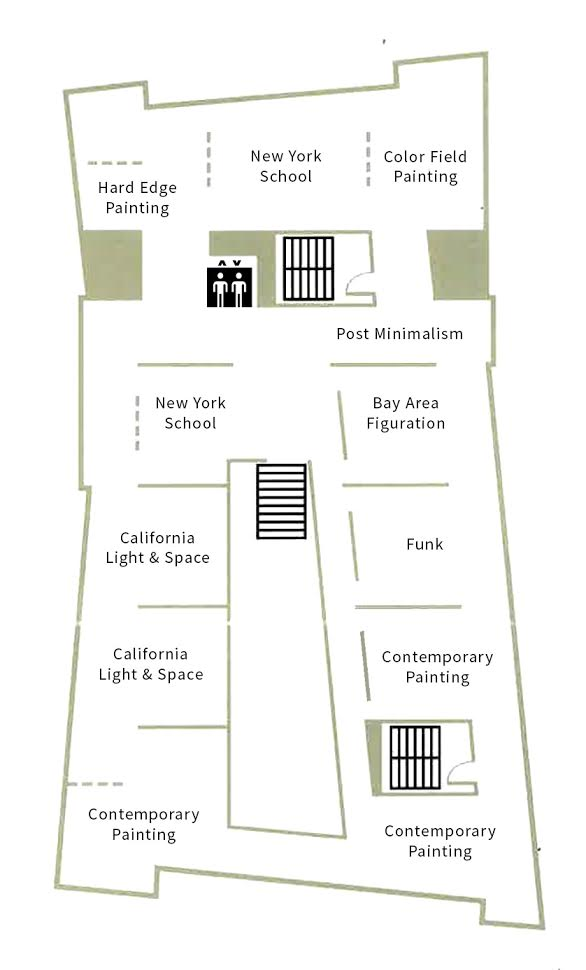
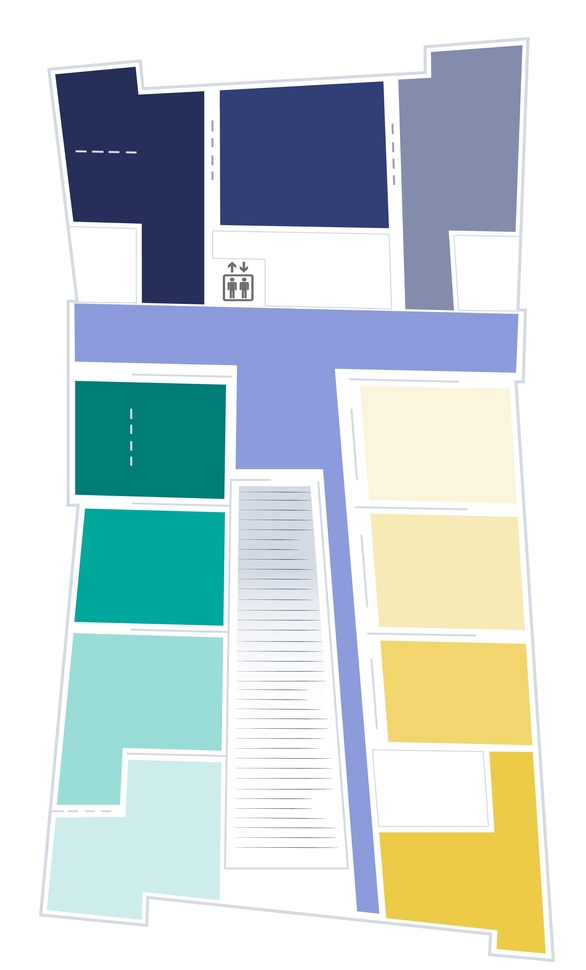
update maps and areas page to do audio

diff --git a/components/area/areaController.js b/components/area/areaController.js
@@ -1,11 +1,153 @@
 'use strict';
 
-caughtApp.controller('areaController', ['$scope', '$routeParams', '$resource',
-  function ($scope, $routeParams, $resource) {
+caughtApp.controller('areaController', ['$scope', '$routeParams', '$resource', '$rootScope',
+  function ($scope, $routeParams, $resource, $rootScope) {
   	$scope.main.title = $routeParams.name;
   	var worksModel = $resource("/area/:name", {}, {get: {method: 'get', isArray: true}});
   	$scope.workList = worksModel.get({name:$routeParams.name}, function () {
   		console.log($scope.workList)
+  		console.log($routeParams.name);
+		$scope.time = "0:00";
+  		$scope.workList.forEach(function(work) {
+  			work.show = false;
+  		});
+
+
   	});
+
+  	$scope.buttonSrc = {
+  		playPause : "./icons/ic_play_arrow_black_24px.svg"
+  	};
+
+  	/*
+  	  	Audio Player Logic	
+  	 */
+  	$scope.step = function() {
+  		var seek = $scope.audio.seek() || 0;
+  		$scope.time = $scope.formatTime(Math.round(seek));
+  		$scope.$apply( function() {
+  			$scope.value = ((seek / $scope.audio.duration()) * 100) || 0;
+  		})
+  		
+  		console.log($scope.value);
+  		// console.log($scope.audio.playing())
+  		if($scope.audio.playing()) {
+  			requestAnimationFrame($scope.step);
+  		}
+  		$scope.time_remaining = $scope.formatTime(Math.round($scope.audio.duration() - seek));
+  	}
+
+  	$scope.formatTime = function(secs) {
+  		var minutes = Math.floor(secs / 60) || 0;
+    	var seconds = (secs - minutes * 60) || 0;
+    	return minutes + ':' + (seconds < 10 ? '0' : '') + seconds;
+  	}
+
+  	$scope.nowPlaying = null;
+  	$scope.selectEntry = function(work) {
+  		if(work.Sound_URL === "") {
+  			return;
+  		}
+  		if($scope.audio !== undefined) {
+  			$scope.audio.stop();
+  			$scope.audio.unload();
+  		}
+  		if($scope.nowPlaying !== null) {
+  			$scope.nowPlaying.show = false;
+  			console.log("here");
+  		}
+
+
+  		$scope.audio = new Howl({
+			src: [work.Sound_URL],
+			onplay: function() {
+				console.log("play2");
+				requestAnimationFrame($scope.step);
+				console.log(work);
+				console.log($scope.nowPlaying);
+				work.show = true;
+				$scope.nowPlaying = work;
+			},
+			onend: function() {
+				$scope.buttonSrc.playPause = "./icons/ic_play_arrow_black_24px.svg";
+				work.show = false;
+				$scope.nowPlaying = null;
+			}
+		});
+
+		$scope.audio.once('load', function() {
+			$scope.time_remaining = $scope.formatTime(Math.round($scope.audio.duration() - 0));
+			$scope.audio.play();
+			$scope.buttonSrc.playPause = "./icons/ic_pause_black_24px.svg";
+		});
+  	}
+
+  	$scope.playPauseAudio = function(work) {
+		if($scope.buttonSrc.playPause === "./icons/ic_play_arrow_black_24px.svg") {
+			$scope.buttonSrc.playPause = "./icons/ic_pause_black_24px.svg";
+
+			if($scope.audio === undefined) {
+				$scope.selectEntry($scope.tour.works[0]);
+			}
+			else {
+				$scope.audio.play();
+			}			
+		}
+		else {
+			$scope.buttonSrc.playPause = "./icons/ic_play_arrow_black_24px.svg";
+			$scope.audio.pause();
+		}
+	};
+
+
+	$rootScope.$on( "$routeChangeStart", function(event, next, current) {
+		if($scope.audio !== undefined) {
+			$scope.audio.stop();
+		}
+	});
+
+	//Volume logic
+	$scope.volume = document.getElementById("volumeSlider");
+
+
+	$scope.volume.addEventListener('mousedown', function() {
+  		window.sliderDown = true;
+  	});
+  	$scope.volume.addEventListener('touchstart', function() {
+  		window.sliderDown = true;
+  	});
+  	$scope.volume.addEventListener('mouseup', function() {
+  		window.sliderDown = false;
+  	});
+  	$scope.volume.addEventListener('touchend', function() {
+  	  	window.sliderDown = false;
+  	});
+
+  	$scope.move = function(event) {
+  		if(window.sliderDown) {
+  			var x = event.clientX || event.touches[0].clientX;
+  			var startX = window.innerWidth * 0.05;
+    		var layerX = x - startX;
+    		var per = Math.min(1, Math.max(0, layerX / parseFloat(volumeSlider.scrollWidth)));
+    		$scope.setVolume(per);
+    		console.log(per);
+  		}
+  	}
+
+  	$scope.volume.addEventListener('mousemove', $scope.move);
+  	$scope.volume.addEventListener('touchmove', $scope.move);
+
+  	$scope.volVal = 50;
+
+  	$scope.setVolume = function(val) {
+  		Howler.volume(val);
+  	}
+
+
+
+  	//Audio progress bar
+
+  	$scope.progress = document.getElementById("progress");
+
 
   }]);

diff --git a/components/map/mapTemplate.html b/components/map/mapTemplate.html
@@ -27,7 +27,20 @@
 
 				<!-- Use image-maps.com to make map-->
 				<map name="andersonmap">
-					<area shape="rect" coords="0,0,100,100" ng-href="#area/contemp">
+
+   					<area alt="" title="" ng-href="#/area/SW" shape="poly" coords="45,70,137,55,143,91,207,94,205,303,144,300,141,227,76,223" />
+				    <area alt="" title="" ng-href="#/area/W" shape="poly" coords="219,226,393,235,387,84,219,84" />
+				    <area alt="" title="" ng-href="#/area/NW" shape="poly" coords="393,82,405,307,459,308,455,235,515,234,523,46,435,46,425,74" />
+				    <area alt="" title="" ng-href="#/area/200" shape="poly" coords="71,307,76,366,233,368,237,475,320,472,357,910,385,914,343,371,519,375,523,316" />
+				    <area alt="" title="" ng-href="#/area/208" shape="poly" coords="73,367,75,500,229,508,228,379" />
+				    <area alt="" title="" ng-href="#/area/207" shape="poly" coords="80,504,75,628,227,632,227,516" />
+				    <area alt="" title="" ng-href="#/area/206" shape="poly" coords="73,631,57,803,121,806,127,751,224,754,225,639" />
+				    <area alt="" title="" ng-href="#/area/205" shape="poly" coords="56,815,45,911,143,920,149,892,224,908,225,762,133,759,125,818" />
+				    <area alt="" title="" ng-href="#/area/201" shape="poly" coords="357,382,368,503,517,511,515,390" />
+				    <area alt="" title="" ng-href="#/area/202" shape="poly" coords="368,514,387,631,531,630,520,519" />
+				    <area alt="" title="" ng-href="#/area/203" shape="poly" coords="376,639,385,744,539,748,525,638" />
+				    <area alt="" title="" ng-href="#/area/204" shape="poly" coords="484,754,495,828,389,828,391,922,495,935,504,962,548,956,535,751" />
+<!-- 					<area shape="rect" coords="0,0,100,100" ng-href="#area/contemp">
 					<map name="andersonmap">
 					<area shape="poly" coords="74,733,59,883,224,907,225,733" alt="Image Map" ng-href="#/area/contemp">
 					<area  alt="" ng-href="#/area/nyschool" shape="poly" coords="210,104,212,226,366,228,364,92">
@@ -40,8 +53,7 @@
 					<area  alt="" ng-href="#/area/clshigher" shape="poly" coords="89,488,226,488,225,604,82,601">
 					<area  alt="" ng-href="#/area/clslower" shape="poly" coords="82,608,226,608,225,724,71,727">
 					<area  alt="" ng-href="#/area/contemprhigh" shape="poly" coords="357,608,508,610,520,716,375,717">
-					<area  alt="" ng-href="#/area/contemprlow" shape="poly" coords="342,799,527,799,540,923,486,921,485,899,349,883">
-				</map>
+					<area  alt="" ng-href="#/area/contemprlow" shape="poly" coords="342,799,527,799,540,923,486,921,485,899,349,883"> -->
 				</map>
 		</md-card>
 	</md-content>

diff --git a/components/area/areaTemplate.html b/components/area/areaTemplate.html
@@ -1,26 +1,46 @@
 <div>
+	<div id="worklist">
+		<md-grid-list layout-fill flex
+			md-cols-xs="1" md-cols-sm="2" md-cols-md="3" md-cols-gt-md="3"
+			md-row-height-gt-md="1:1" md-row-height="2:2"
+			md-gutter="12px" md-gutter-gt-sm="8px">
 
-	<md-grid-list layout-fill flex
-		md-cols-xs="1" md-cols-sm="2" md-cols-md="3" md-cols-gt-md="3"
-		md-row-height-gt-md="1:1" md-row-height="2:2"
-		md-gutter="12px" md-gutter-gt-sm="8px" >
+			<md-grid-tile ng-repeat="work in workList" ng-click="selectEntry(work)">
+				<md-card layout-fill>
+					<md-card-title>
+						<md-card-title-text>
+							<span class="md-headline">{{work.Title}}</span>
+							<span class="md-subhead">{{work.Artist}}</span>
+						</md-card-title-text>
+					</md-card-title>
+					<md-card-content>
+						<img id="list" ng-src="{{work.Work_Image}}" class="md-card-image center">
+						<span>
+							<md-icon md-svg-src="./icons/ic_volume_up_black_24px.svg" id="nowPlaying" ng-show="work.Sound_URL || false"></md-icon>
+						</span>
+						<span>
+							<md-icon md-svg-src="./icons/ic_play_arrow_black_24px.svg" id="nowPlaying" ng-show="work.show || false"></md-icon>
+						</span>
+					</md-card-content>
+					
+				</md-card>
+			</md-grid-tile>
 
-		<md-grid-tile ng-repeat="work in workList">
-			<md-card layout-fill>
-				<md-card-title>
-					<md-card-title-text>
-						<span class="md-headline">{{work.Title}}</span>
-						<span class="md-subhead">{{work.Artist}}</span>
-					</md-card-title-text>
-				</md-card-title>
-				<md-card-content>
-					<img id="list" ng-src="{{work.Image_URL}}" class="md-card-image center">
-				</md-card-content>
-				
-			</md-card>
-		</md-grid-tile>
+		</md-grid-list>
+	</div>
 
-	</md-grid-list>
+	<div id="audioplayer">
+		<!-- audioplayer -->
+		<md-progress-linear id = "progress" md-mode="determinate" value="{{value || 0}}"></md-progress-linear>
+
+		<p style="text-align:left;"> {{time}} <span style="float:right;"> {{time_remaining}}</span></p>
+		<md-icon id="play" class = "size-48 center" md-svg-src="{{buttonSrc.playPause}}" ng-click="playPauseAudio(work)"> Play </md-icon>
+		<md-slider-container id="volumeSlider">
+			<md-icon id="volume" md-svg-src="./icons/ic_volume_up_black_24px.svg"></md-icon>
+			<md-slider min="0" max="100" ng-model="volVal"></md-slider>
+		</md-slider-container>
+	</div>
+
 	<!-- <md-content>
 		<md-card ng-repeat="work in workList">
 			<a ng-href="#work/{{work._id}}">

diff --git a/schema/work.js b/schema/work.js
@@ -1,5 +1,5 @@
 "use strict;"
 var mongoose = require('mongoose');
-var workSchema = new mongoose.Schema({Title: String,Artist: String,Year: String,Medium: String,Size: String,Movement: String,Section: String,Image_URL: String,Sound_URL: String,})
+var workSchema = new mongoose.Schema({ID: String,Title: String,Content: String,Date: String,Post_Type: String,Permalink: String,URL: String,Title_1_: String,URL_1_: String,Medium: String,Decade: String,Movement: String,Artist: String,Gallery_Location: String,Year_of_Anderson_Accession: String,Slug: String,Ping_Status: String,Post_Modified_Date: String,Work_Year: String,Work_Dimensions: String,Work_Medium_Detailed: String,Stanford_Accession_Number: String,Anderson_Accession_Number: String,Acquired_from_Gallery_Person: String,Work_Marks: String,Gift_Acquisition_Notes: String,Featured_Work: String,Work_Image: String,Copyright_Caption: String,Image_Copyright_Options: String,Sound_URL: String,})
 var Work = mongoose.model('Work', workSchema);
 module.exports = Work;

diff --git a/components/map/map.css b/components/map/map.css
@@ -8,6 +8,16 @@ md-tabs md-ink-bar {
     background-color: #8C1515;
 }
 
+.map {
+	max-height: 80%;
+}
+
+html, body {
+  width:  100%;
+  height: 100%;
+  margin: 0px;
+}
+
 md-tabs > md-tabs-wrapper > md-tabs-canvas > md-pagination-wrapper > md-tab-item:not([disabled]).md-active, md-tabs > md-tabs-wrapper > md-tabs-canvas > md-pagination-wrapper > md-tab-item:not([disabled]).md-active md-icon, md-tabs.md-accent > md-tabs-wrapper > md-tabs-canvas > md-pagination-wrapper > md-tab-item:not([disabled]).md-active md-icon, md-tabs.md-default-theme.md-accent > md-tabs-wrapper > md-tabs-canvas > md-pagination-wrapper > md-tab-item:not([disabled]).md-focused, md-tabs.md-default-theme.md-accent > md-tabs-wrapper > md-tabs-canvas > md-pagination-wrapper > md-tab-item:not([disabled]).md-focused md-icon {
   color: #820000 !important;
 }

diff --git a/webServer.js b/webServer.js
@@ -98,7 +98,7 @@ app.get('/work/:work_id', function(request, response) {
 
 app.get('/area/:name', function(request, response) {
     var name = request.params.name;
-    Work.find({Section: name}, function(err, works) {
+    Work.find({Gallery_Location: name}, function(err, works) {
         if(err) {
             console.error('Error retrieving works');
             response.status(400).send(JSON.stringify(err));

diff --git a/components/area/area.css b/components/area/area.css
@@ -3,6 +3,12 @@ a:hover, a:visited, a:link, a:active {
 	color: #000000;
 }
 
+#worklist {
+	max-height: 75vh;
+	overflow: scroll;
+	display:block;
+	margin-bottom: 125px;
+}
 
 img#list {
 	display: block;
@@ -18,5 +24,13 @@ img#list {
 	    max-width: 500px;
 	    height: auto;
 	}
+}
+
+#audioplayer {
+   position:fixed;
+   bottom:0;
+   width:100%;
+   height: 125px;
+   background-color: white;
 }
 

diff --git a/csvToJs.py b/csvToJs.py
@@ -3,7 +3,7 @@ from enum import Enum
 import re
 
 toursfile = open('toursfile.csv', 'rb')
-worksfile = open('worksfile.csv', 'rb')
+worksfile = open('collections.csv', 'rb')
 outputfile = open('output.js', 'wb')
 workSchemaFile = open('./schema/work.js', 'wb')
 tourSchemaFile = open('./schema/tour.js', 'wb')
@@ -124,6 +124,15 @@ work_names = []
 for row in reader:
 	if t == Type.Attributes:
 		attributes = row
+		attr_set = set()
+		attrs = []
+		for attr in attributes:
+			if attr in attr_set:
+				attrs.append(attr + "(1)")
+			else:
+				attrs.append(attr)
+			attr_set.add(attr)
+		attributes = attrs
 		isAttributes = False
 		t = Type.Data
 		counter = 0
@@ -133,7 +142,7 @@ for row in reader:
 		for i in range(len(attributes)):
 			if attributes[i] == "":
 				continue
-			dict_str += re.sub('[^0-9a-zA-Z]+', '_', attributes[i]) + " : " + "\"" + row[i].replace("\"", "\\\"") + "\""
+			dict_str += re.sub('[^0-9a-zA-Z]+', '_', attributes[i]) + " : " + "\"" + row[i].replace("\"", "\\\"").replace("\n", "").replace("\r","") + "\""
 			if i != len(attributes) - 1:
 				dict_str += ", "
 		dict_str += "}"
@@ -168,7 +177,7 @@ outputfile.write("\t}\n")
 
 outputfile.write("})();")
 
-#### Write Wirj Schemas
+#### Write Work Schemas
 
 workSchemaFile.write("\"use strict;\"\n")
 workSchemaFile.write("var mongoose = require('mongoose');\n");
